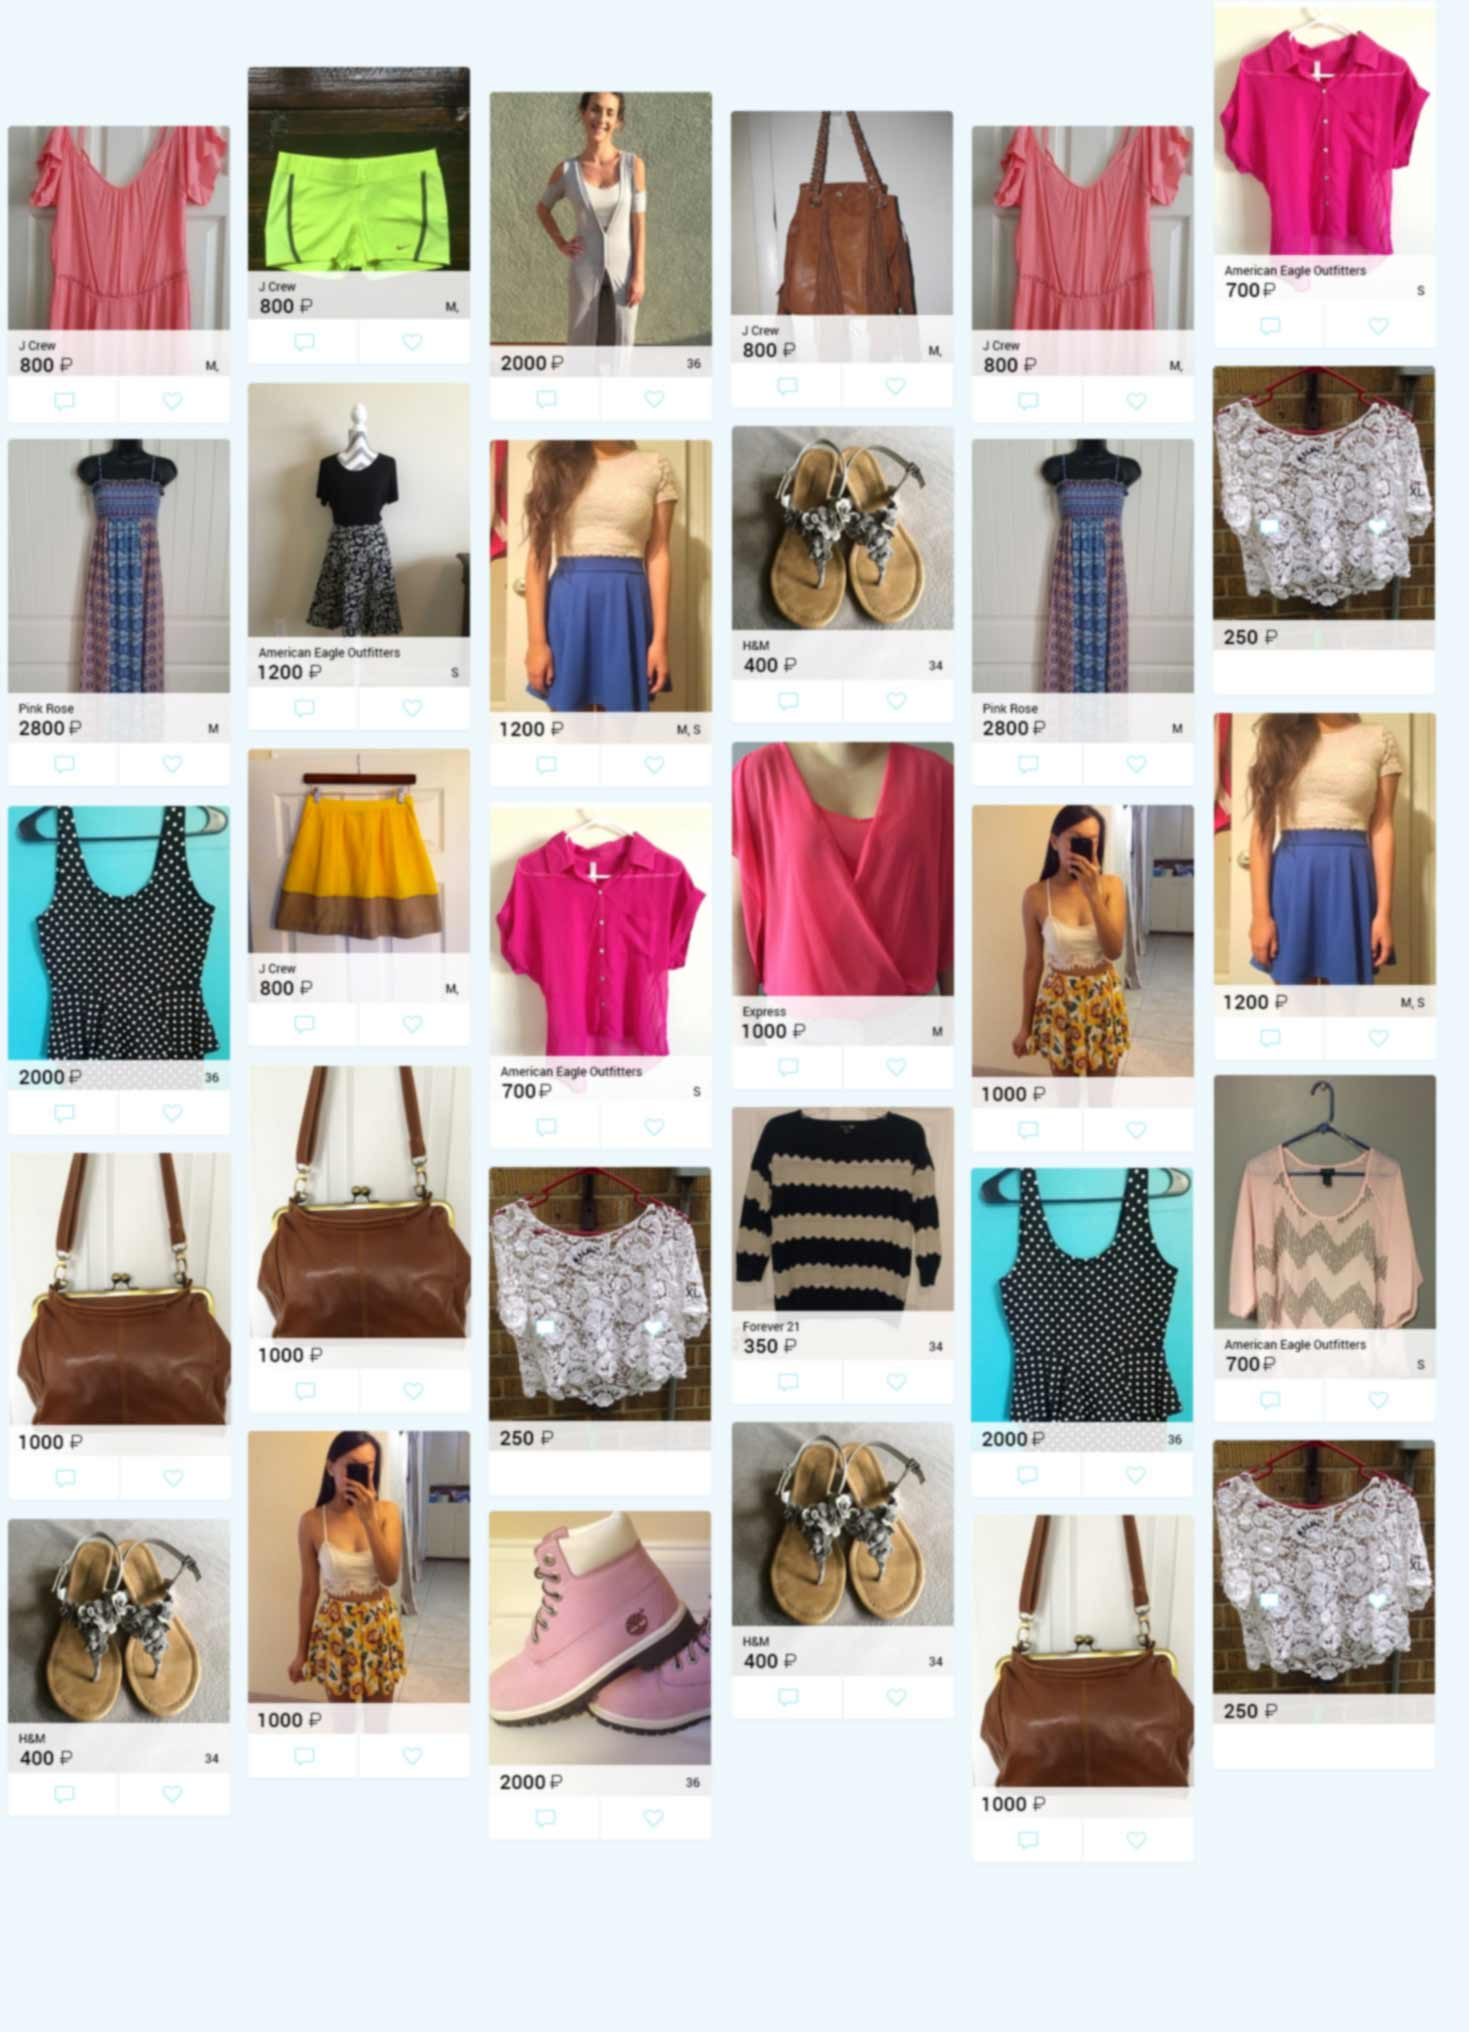
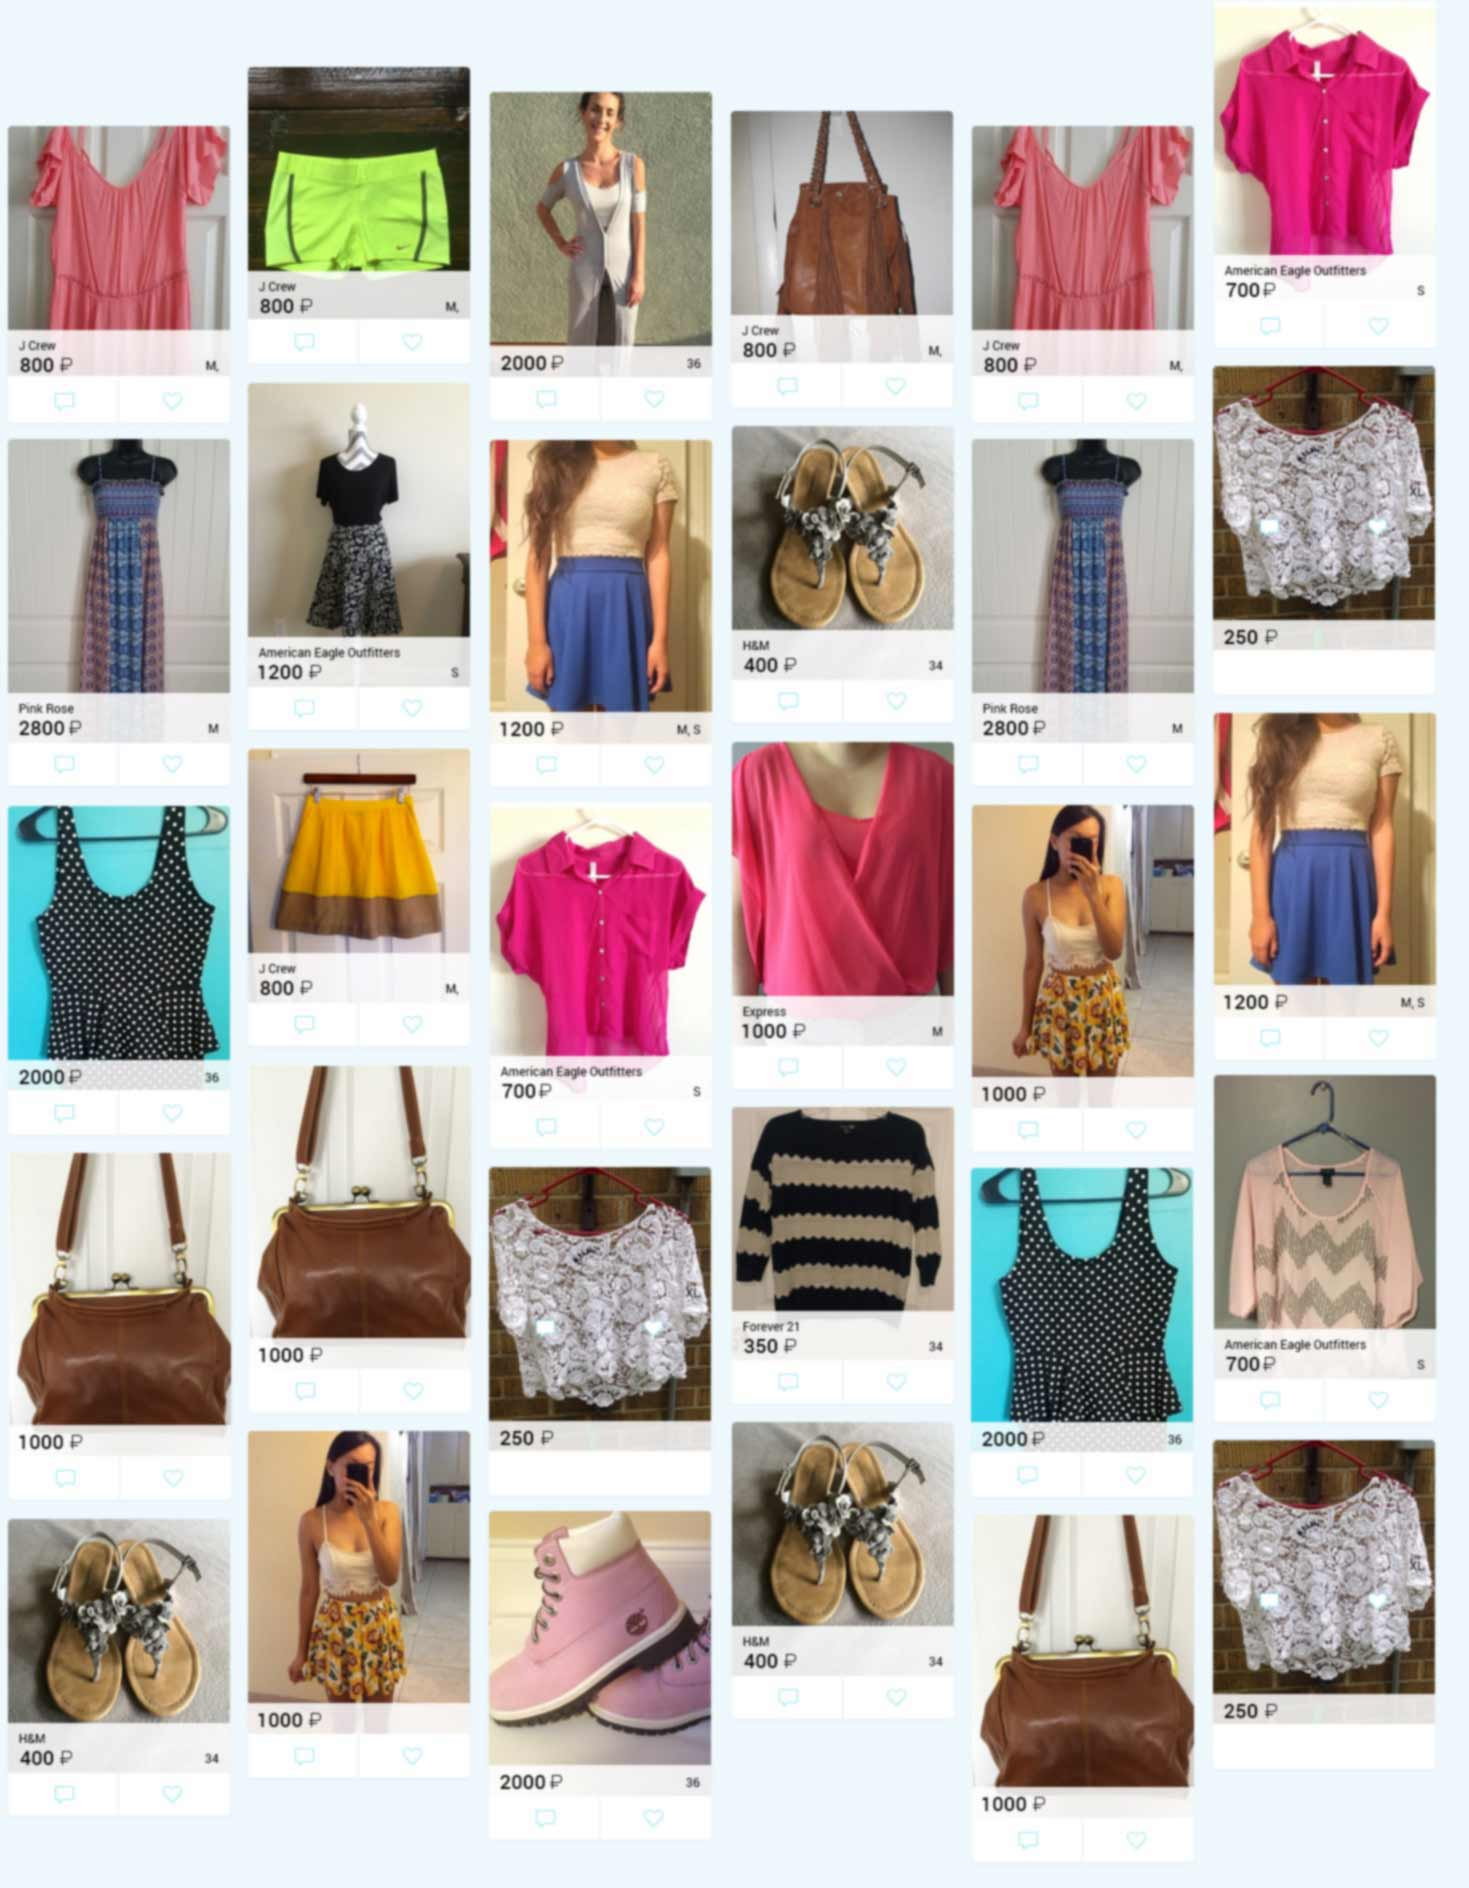
страница промо, провальная попытка приклеить фоновую картинку к контенту

diff --git a/src/promo.html b/src/promo.html
@@ -1,0 +1,174 @@
+<!DOCTYPE html>
+<html lang="ru">
+<head>
+  <!--
+   ____  ____  ____   ___  ____  _  _  ____   __  ____   __   _  _
+  / ___)(  __)(  _ \ / __)(  __)( \/ )(  _ \ /  \(  _ \ /  \ / )( \
+  \___ \ ) _)  )   /( (_ \ ) _)  )  /  ) __/(  O )) __/(  O )\ \/ /
+  (____/(____)(__\_) \___/(____)(__/  (__)   \__/(__)   \__/  \__/
+  -->
+  <meta charset="utf-8">
+  <meta name="viewport" content="width=device-width, initial-scale=1">
+  <meta name="robots" content="noindex, nofollow">
+  <title>Ningo - промо-страница"</title>
+  <link rel="stylesheet" href="http://fonts.googleapis.com/css?family=Roboto:400,300,500,700&amp;subset=latin,cyrillic-ext">
+  <link rel="stylesheet" href="css/style.min.css">
+</head>
+<body class="promo-page">
+
+
+
+<!-- основной хедер, который будет на других страницах. Для незалогиненного пользователя. Тут он прилипает к верху и появляется при скролле на определенном месте. -->
+  <header class="main-header">
+    <div class="main-header__right">
+      <div class="tooltip-container">
+        <a href="#" class="btn btn--all-blue js-tooltip-toggle">Войти</a>
+        <div class="tooltip-content tooltip-content--sticky">
+          <!-- тултип входа через соц-сети -->
+          <div class="tooltip-socio">
+            <p class="tooltip-content__title">Войти через социальную сеть:</p>
+            <div class="tooltip-socio__ico">
+              <a href="#"><img src="img/ico/ico-26.svg" alt=""></a>
+              <a href="#"><img src="img/ico/ico-27.svg" alt=""></a>
+              <a href="#"><img src="img/ico/ico-28.svg" alt=""></a>
+            </div>
+          </div>
+          <!-- тултип входа через email -->
+          <div class="tooltip-email">
+            <p class="tooltip-content__title">Войти через социальную сеть:</p>
+            <form action="/echo" method="POST">
+              <input type="text" placeholder="Email" class="error" required>
+              <p>Такой адрес не зарегистрирован</p>
+              <input type="password" placeholder="Пароль" required>
+              <button type="submit" class="btn btn--orange">Войти</button>
+            </form>
+            <div class="row tooltip-email__href">
+              <a href="#">Регистрация</a>
+              <a href="#">Забыли пароль?</a>
+            </div>
+          </div>
+        </div>
+      </div>
+      <a href="#" class="btn btn--all-blue">Продать</a>
+
+    </div>
+
+    <!-- левая часть нормальная -->
+    <div class="main-header__left main-header__left--open main-header__left--basic row">
+      <!-- логотип -->
+      <figure class="logo logo--big">
+        <img src="img/logo--big.png" alt="">
+      </figure>
+
+      <!-- гамбургер для управления мобильным меню, переключение состояний по модификатору active -->
+      <a href="#" class="mobile-menu-toggle"></a>
+
+      <!-- мобильное меню для незалогиненного пользователя, переключение по модификатору active -->
+      <nav class="mobile-menu  mobile-menu--unlogged">
+        <ul class="mobile-menu__list">
+          <li class="mobile-menu__item">
+            <span class="mobile-menu__text">Войти через:</span>
+            <div class="mobile-menu__social-icons">
+              <a href="#" class="mobile-menu__social-icon  mobile-menu__social-icon--vk"></a>
+              <a href="#" class="mobile-menu__social-icon  mobile-menu__social-icon--fb"></a>
+              <a href="#" class="mobile-menu__social-icon  mobile-menu__social-icon--ok"></a>
+            </div>
+          </li>
+          <!-- переключатель и форма входа через email -->
+          <li class="mobile-menu__item">
+            <!-- переключение по модификатору active -->
+            <a href="#" class="login-by-email-toggle">Войти через Email</a>
+            <div class="login-by-email">
+              <form action="#" method="post" class="login-by-email__form">
+                <input type="text" id="email-login" name="email-login" class="login-by-email__text-input" placeholder="Email">
+                <input type="text" id="password-login" name="password-login" class="login-by-email__text-input" placeholder="Пароль">
+                <button class="btn btn--orange">Войти</button>
+              </form>
+              <div class="login-by-email__wrapper">
+                 <a href="#" class="login-by-email__link  login-by-email__link--left">Регистрация</a>
+                 <a href="#" class="login-by-email__link  login-by-email__link--right">Забыли пароль?</a>
+               </div>
+            </div>
+          </li>
+          <li class="mobile-menu__item">
+            <a href="#" class="mobile-menu__link">Каталог</a>
+          </li>
+          <li class="mobile-menu__item">
+            <a href="info.html" class="mobile-menu__link">О проекте</a>
+          </li>
+        </ul>
+      </nav>
+
+      <nav class="main-header__navigation row row--inline">
+        <a href="#" class="btn btn--all-blue-soft">Моя лента</a>
+        <a href="#" class="btn btn--all-blue-soft">Каталог</a>
+        <a href="#" class="btn btn--all-blue-soft">О проекте</a>
+      </nav>
+
+      <button type="button" class="main-header__find btn btn--all-blue-soft js-open-header-find">Искать</button>
+
+    </div>
+
+    <!-- левая часть с поиском -->
+    <div class="main-header__left main-header__left--find">
+      <form action="/echo" method="POST" class="main-header__form">
+        <button type="button" class="main-header__close js-close-header-find"></button>
+        <div class="main-header__select-wrapper">
+          <select class="main-header__select">
+            <option value="1">Вещи</option>
+            <option value="2">Стулья</option>
+            <option value="3">Коробки</option>
+          </select>
+        </div>
+        <div class="main-header__input-container">
+          <input type="text" class="main-header__input" placeholder="Например: Юбка, черная, Москва">
+        </div>
+      </form>
+    </div>
+  </header>
+  
+  <div class="promo-page__background-layer">
+    <img src="img/bg-items-grid-blur.jpg" width="1469" height="1888" alt="" class="promo-page__background-image">
+  </div>
+  <!-- синий полупрозрачный блок под модальным окном, открывается по модификатору active -->
+  <div class="color-overlay  color-overlay--active"></div>
+
+  <div class="container container--small">
+
+    <div class="page-title page-title--promo-page">Отлично! Ваша вещь уже в продаже!</div>
+
+
+    <div class="gallery-item  gallery-item--stroke">
+
+            <!-- пустой абсолютно позиционированный блок, по модификатору stroke к gallery-item добавляет обводку -->
+            <div class="gallery-item__stroke"></div>
+
+            <!-- полупрозрачный флажок сверху карточки. по модификаторам blue yellow green включается цвет, по модификаторам fullsize и square - размер,  по модификаторам добавляется текст: checkin - на проверке, quick-sell - продать быстрее, delivery - доставка, по модификатору arrow добавляется иконка стрелки -->
+            <a href="#" class="gallery-item__flag"></a>
+
+            <img src="img/favourites-gallery-item.jpg" width="194" height="255" alt="" class="gallery-item__image">
+
+            <div class="gallery-item__capture">
+              <div class="gallery-item__brand"></div>
+              <div class="gallery-item__price">1200 <span class="gallery-item__icon  gallery-item__icon--rubl">рублей</span></div>
+              <div class="gallery-item__sizes">M, S</div>
+            </div>
+
+            <div class="gallery-item__comment-like  row">
+              <div class="gallery-item__comment">
+                <a href="#" class="gallery-item__link  gallery-item__icon  gallery-item__icon--comment"><span class="gallery-item__comment-count"></span></a>
+              </div>
+              <div class="gallery-item__like">
+                <a href="#" class="gallery-item__link  gallery-item__icon  gallery-item__icon--like"><span class="gallery-item__comment-count  gallery-item__comment-count--like"></span></a>
+              </div>
+            </div>
+          </div>
+
+  </div>
+
+
+  <!-- Основная библиотека + основной файл jss -->
+  <script src="js/jquery.js"></script>
+  <script src="js/script.js"></script>
+</body>
+</html>

diff --git a/src/less/project/promo-page.less b/src/less/project/promo-page.less
@@ -1,0 +1,57 @@
+.promo-page {
+  position: relative;
+  min-height: 100%;
+  background-color: transparent;
+  /*background-image: url("../img/bg-items-grid-blur.jpg");
+  background-position: -180px -200px;
+  background-size: 1469px auto;
+  background-attachment: scroll;*/
+  overflow-x: hidden;
+
+  &__background-layer {
+    position: absolute;
+    top: -180px;
+    left: -200px;
+  }
+
+  .main-header {
+    position: relative;
+    height: 50px;
+    z-index: 500;
+  }
+
+  .color-overlay {
+    z-index: 1;
+  }
+
+  .container {
+    position: relative;
+    padding-top: 60px;
+    z-index: 500;
+
+    &--small {
+      width: 667px;
+    }
+  }
+
+  .gallery-item {
+    width: 228px;
+
+    &__image {
+      width: 100%;
+      height: auto;
+    }
+  }
+}
+
+.page-title {
+
+  &--promo-page {
+    position: relative;
+    margin: 0;
+    margin-bottom: 89px;
+    text-align: center;
+    color: #fff;
+    z-index: 100;
+  }
+}

diff --git a/src/registration.html b/src/registration.html
@@ -10,7 +10,7 @@
   <meta charset="utf-8">
   <meta name="viewport" content="width=device-width, initial-scale=1">
   <meta name="robots" content="noindex, nofollow">
-  <title>Ningo - страница "мой профиль"</title>
+  <title>Ningo - страница регистрации</title>
   <link rel="stylesheet" href="http://fonts.googleapis.com/css?family=Roboto:400,300,500,700&amp;subset=latin,cyrillic-ext">
   <link rel="stylesheet" href="css/style.min.css">
 </head>

diff --git a/src/less/base/components/gallery-item.less b/src/less/base/components/gallery-item.less
@@ -7,7 +7,7 @@
   margin-right: 14px;
   margin-bottom: 17px;
   background-color: #fff;
-  border-radius: 3px;
+  border-radius: 5px;
   box-shadow: 0px 1px 3px 0px rgba(8,68,95,0.05);
   overflow: hidden;
 
@@ -213,7 +213,7 @@
       width: 100%;
       height: 100%;
       border: 2px solid @orange;
-      border-radius: 3px;
+      border-radius: 5px;
       z-index: 100;
     }
   }

diff --git a/src/less/style.less b/src/less/style.less
@@ -73,6 +73,7 @@
 @import "project/sell-item.less"; //подать объявление
 @import "project/my-profile.less"; //мой профиль
 @import "project/registration.less"; //регистрация
+@import "project/promo-page.less"; //промо
 
 
 
